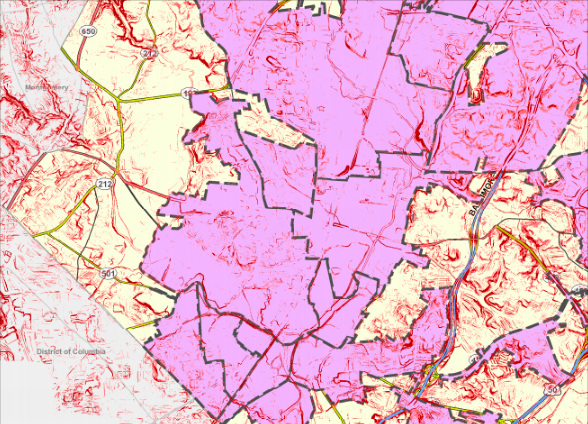
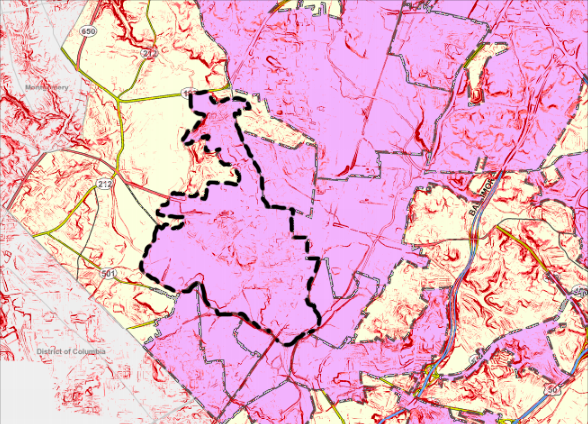
added Legend information and highlight Hyattsville in img

diff --git a/maps.html b/maps.html
@@ -30,7 +30,9 @@
 			Insert the analysis in place of these text. <br>
 			A new paragraph maybe but these are filler text.
 		</p>
-		<img id = "floodP" src = "img/flood.png" alt= "Flood view" onclick="modalFunction(this.id)">
+		<img src = "img/floodLegend.png" alt = "Legend for Flood image">
+		<img id = "floodP" src = "img/flood.png" alt= "Flood view" 
+		onclick="modalFunction(this.id, 'img/floodLegend.png')">
 	</div>
 
 	<div id = "watershed"> 
@@ -39,7 +41,9 @@
 			Insert the analysis in place of these text. <br>
 			A new paragraph maybe but these are filler text.
 		</p>
-		<img id = "watershedP" src = "img/watershed.png" alt= "Watershed view" onclick="modalFunction(this.id)">
+		<img src = "img/watershedL.png" alt = "Legend for Watershed image">
+		<img id = "watershedP" src = "img/watershed.png" alt= "Watershed view" 
+		onclick="modalFunction(this.id, 'img/watershedL.png')">
 	</div>
 
 	<div id = "soil"> 
@@ -47,7 +51,9 @@
 			<h2>Soil View</h2>
 			It is evident that Hyattsville has a diverse range of soil types; however, the most important ones here include flood-prone soils. These flood-prone soils are highlighted in blue. Many flood regions lie along the edge of the city limits by bodies of water such as the Northeast and Northwest Branches of the Anacostia River and University Hills Pond Park. Other flood regions are situated along areas where there is a high amount of impervious surfaces (The Mall at Prince George’s, Northwestern High School, residential areas).
 		</p>
-		<img id = "soilP" src = "img/soilType.png" alt= "Soil view" onclick="modalFunction(this.id)">
+		<img src = "img/soilL.png" alt = "Legend for soil image">
+		<img id = "soilP" src = "img/soilType.png" alt= "Soil view" 
+		onclick="modalFunction(this.id, 'img/soil.png')">
 	</div>
 
 	<div id = "treecanopy"> 
@@ -56,7 +62,9 @@
 			Insert the analysis in place of these text. <br>
 			A new paragraph maybe but these are filler text.
 		</p>
-		<img id = "treecanopyP" src = "img/treeCanopy.png" alt= "Tree Canopy view" onclick="modalFunction(this.id)">
+		<img src = "img/treeCanopyL.png" alt = "Legend for Tree Canopy image">
+		<img id = "treecanopyP" src = "img/treeCanopy.png" alt= "Tree Canopy view" 
+		onclick="modalFunction(this.id, 'img/treeCanopyL.png')">
 	</div>
 
 	<div id = "slope"> 
@@ -65,7 +73,9 @@
 			Insert the analysis in place of these text. <br>
 			A new paragraph maybe but these are filler text.
 		</p>
-		<img id = "slopeP" src = "img/slope.png" alt= "Slope view" onclick="modalFunction(this.id)">
+		<img src = "img/slopeL.png" alt = "Legend for Slope image">
+		<img id = "slopeP" src = "img/slope.png" alt= "Slope view" 
+		onclick="modalFunction(this.id, 'img/slopeL.png')">
 	</div>
 
 	<div id = "surface"> 
@@ -73,7 +83,9 @@
 			<h2>Impervious Surface View</h2>
 			Impervious surfaces of Hyattsville. The city is approximately outlined in red. The largest concentrations of impervious surfaces include mostly pavemented areas - The Mall at Prince George’s, Northwestern High School, Route 1 area and the surrounding neighborhoods and businesses, West Hyattsville residential areas and metro station.
 		</p>
-		<img id = "surfaceP" src = "img/impervSurface.png" alt= "Impervious Surface view" onclick="modalFunction(this.id)">
+		<img src = "img/surfaceL.png" alt = "Legend for Surface image">
+		<img id = "surfaceP" src = "img/impervSurface.png" alt= "Impervious Surface view" 
+		onclick="modalFunction(this.id, 'img/surfaceL.png')">
 	</div>	
 
 <!-- SETTING UP MODAL THAT WILL SHOW UP WHEN CLICKED ON REPRESENTATIVE IMAGES -->
@@ -83,24 +95,21 @@
 <!-- JAVASCRIPT CODE TO FILL IN THE MODAL INFORMATION BASED ON THE IMAGE CLICKED -->
 
 	<script type="text/javascript">
-		function modalFunction(id){
+		function modalFunction(id, legend){
 			//var caption = document.getElementById(id).alt;
 			var modal = document.getElementById('myModal');
 
 			var img = document.getElementById(id);
 			var modalImg = document.getElementById('mapImg');
+			var modalLeg = document.getElementById('mapLeg');
 			var captionText = document.getElementById(id).alt;
-			//document.getElementById('caption').innerHTML = '';
-			//document.getElementById('caption').innerHTML = captionText;
-			//alert(document.getElementById('caption').innerHTML)
 			img.onclick = function(){
 				modal.style.display = "block";
 				modalImg.src = this.src;
-				//captionText.innerHTML = this.alt;
+				modalLeg.src = legend;
 			}
 			// Get the <span> element that closes the modal
 			var span = document.getElementsByClassName("close")[0];
-
 			// When the user clicks on <span> (x), close the modal
 			span.onclick = function() { 
 		    	modal.style.display = "none";
@@ -108,10 +117,11 @@
 		}
 
 	</script>
+	
 	<div id="myModal" class="modal">
   		<span class="close">&times;</span>
   		<img class="modal-content" id="mapImg">
-  		<div id="caption">
+  		<img class ="modal-Legend" id="mapLeg">
   		</div>
 	</div>
 

diff --git a/css/main.css b/css/main.css
@@ -36,20 +36,6 @@ body{
     color: white;
 }
 
-
-.map img {
-    position: relative;
-    float: left;
-    width:  100px;
-    background-repeat:   no-repeat;
-    background-size:     cover;
-}
-
-#mapLink:hover {
-	opacity: 0.7;
-	cursor: pointer;
-}
-
 #flood, #watershed, #soil, #treecanopy, #slope, #surface{
 	text-align: center;
 	padding-top: 50px;
@@ -57,10 +43,17 @@ body{
 }
 #flood p, #watershed p, #soil p, #treecanopy p, #slope p, #surface p{
 	margin-top: 75px;
+	padding-left: 10%;
+	padding-right: 10%;
+	margin-left: 50%;
 }
+
+p.text{
+	margin-left: 20%;
+}
+
 #floodP, #watershedP, #soilP, #treecanopyP, #slopeP, #surfaceP{
-	float: bottom;
-	left: 50%;
+	float: top;
 	width: 380px;
 	height: 280px;
 }
@@ -95,22 +88,17 @@ body{
     width: 80%;
     max-width: 900px;
 }
-
-/* Caption of Modal Image */
-#caption {
+.modal-Legend {
     margin: auto;
     display: block;
-    width: 80%;
-    max-width: 700px;
-    text-align: center;
-    color: #ccc;
-    padding: 10px 20px;
-    height: 200px;
-    font-size: 30px;
+    width: 40%;
+    max-width: 400px;
+    border-radius: 10px;
+    margin-top: 10px;
 }
 
 /* Add Animation */
-.modal-content, #caption {    
+.modal-content, #caption, .modal-Legend {    
     -webkit-animation-name: zoom;
     -webkit-animation-duration: 0.6s;
     animation-name: zoom;
